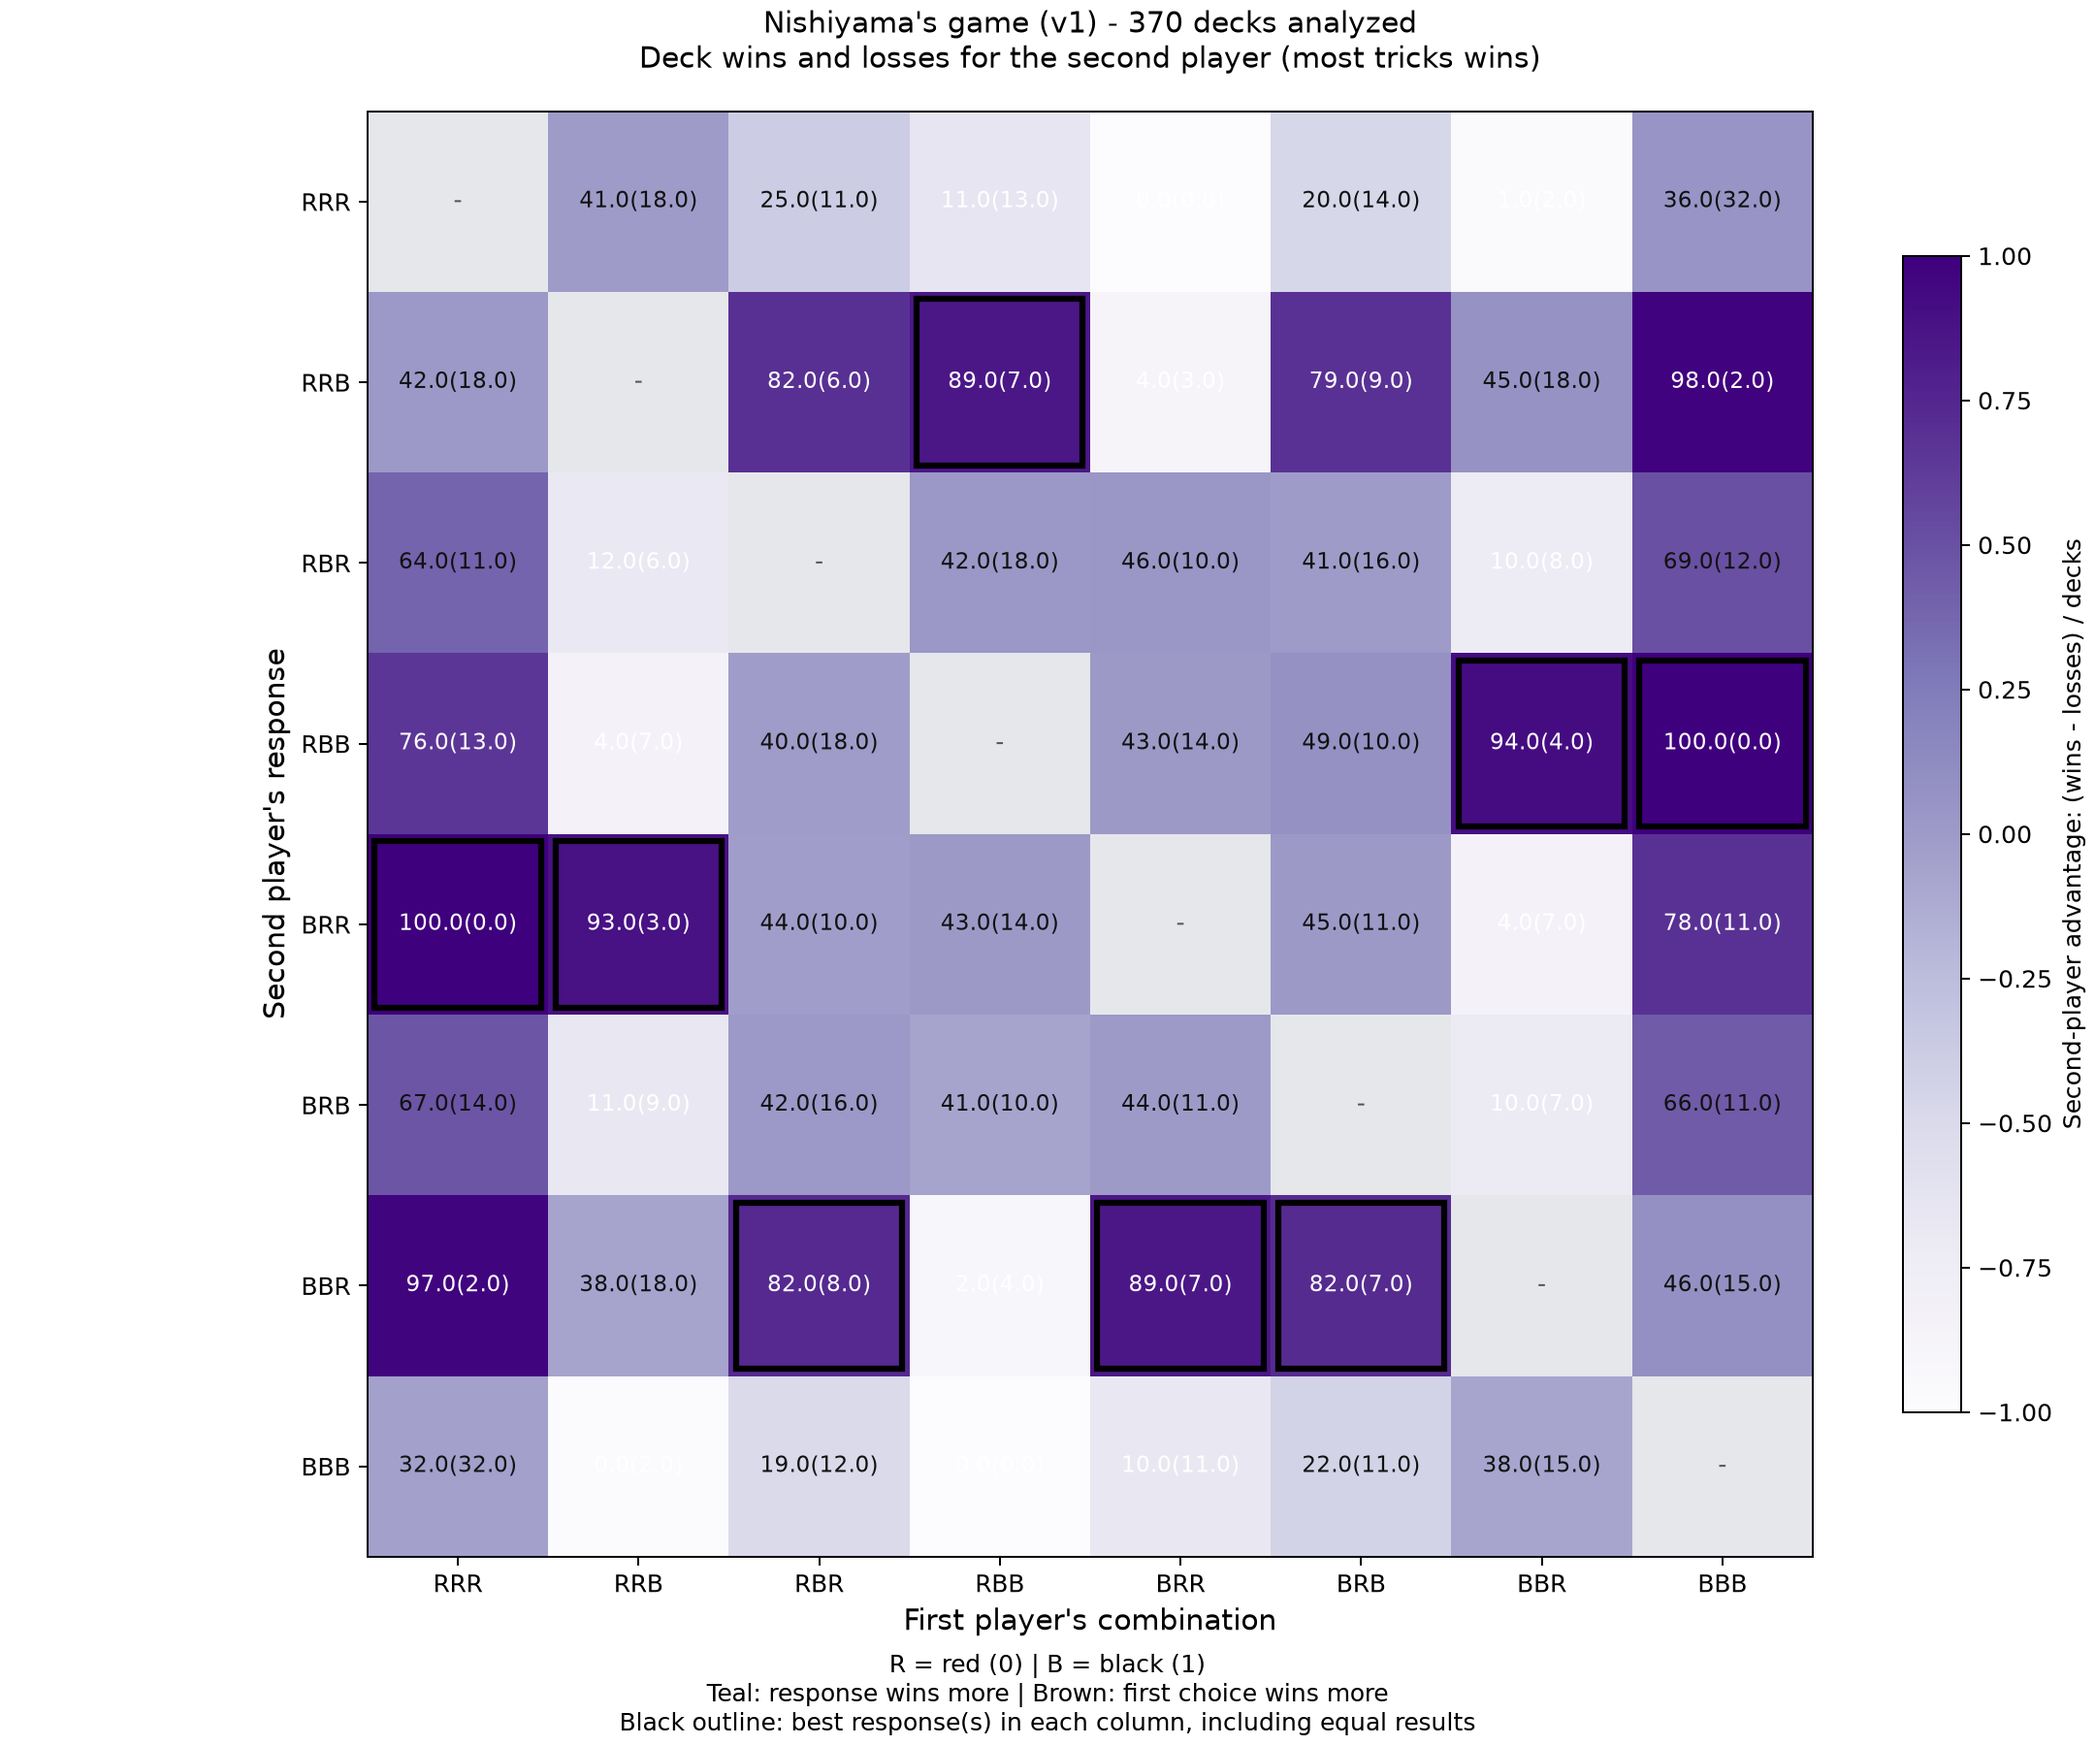
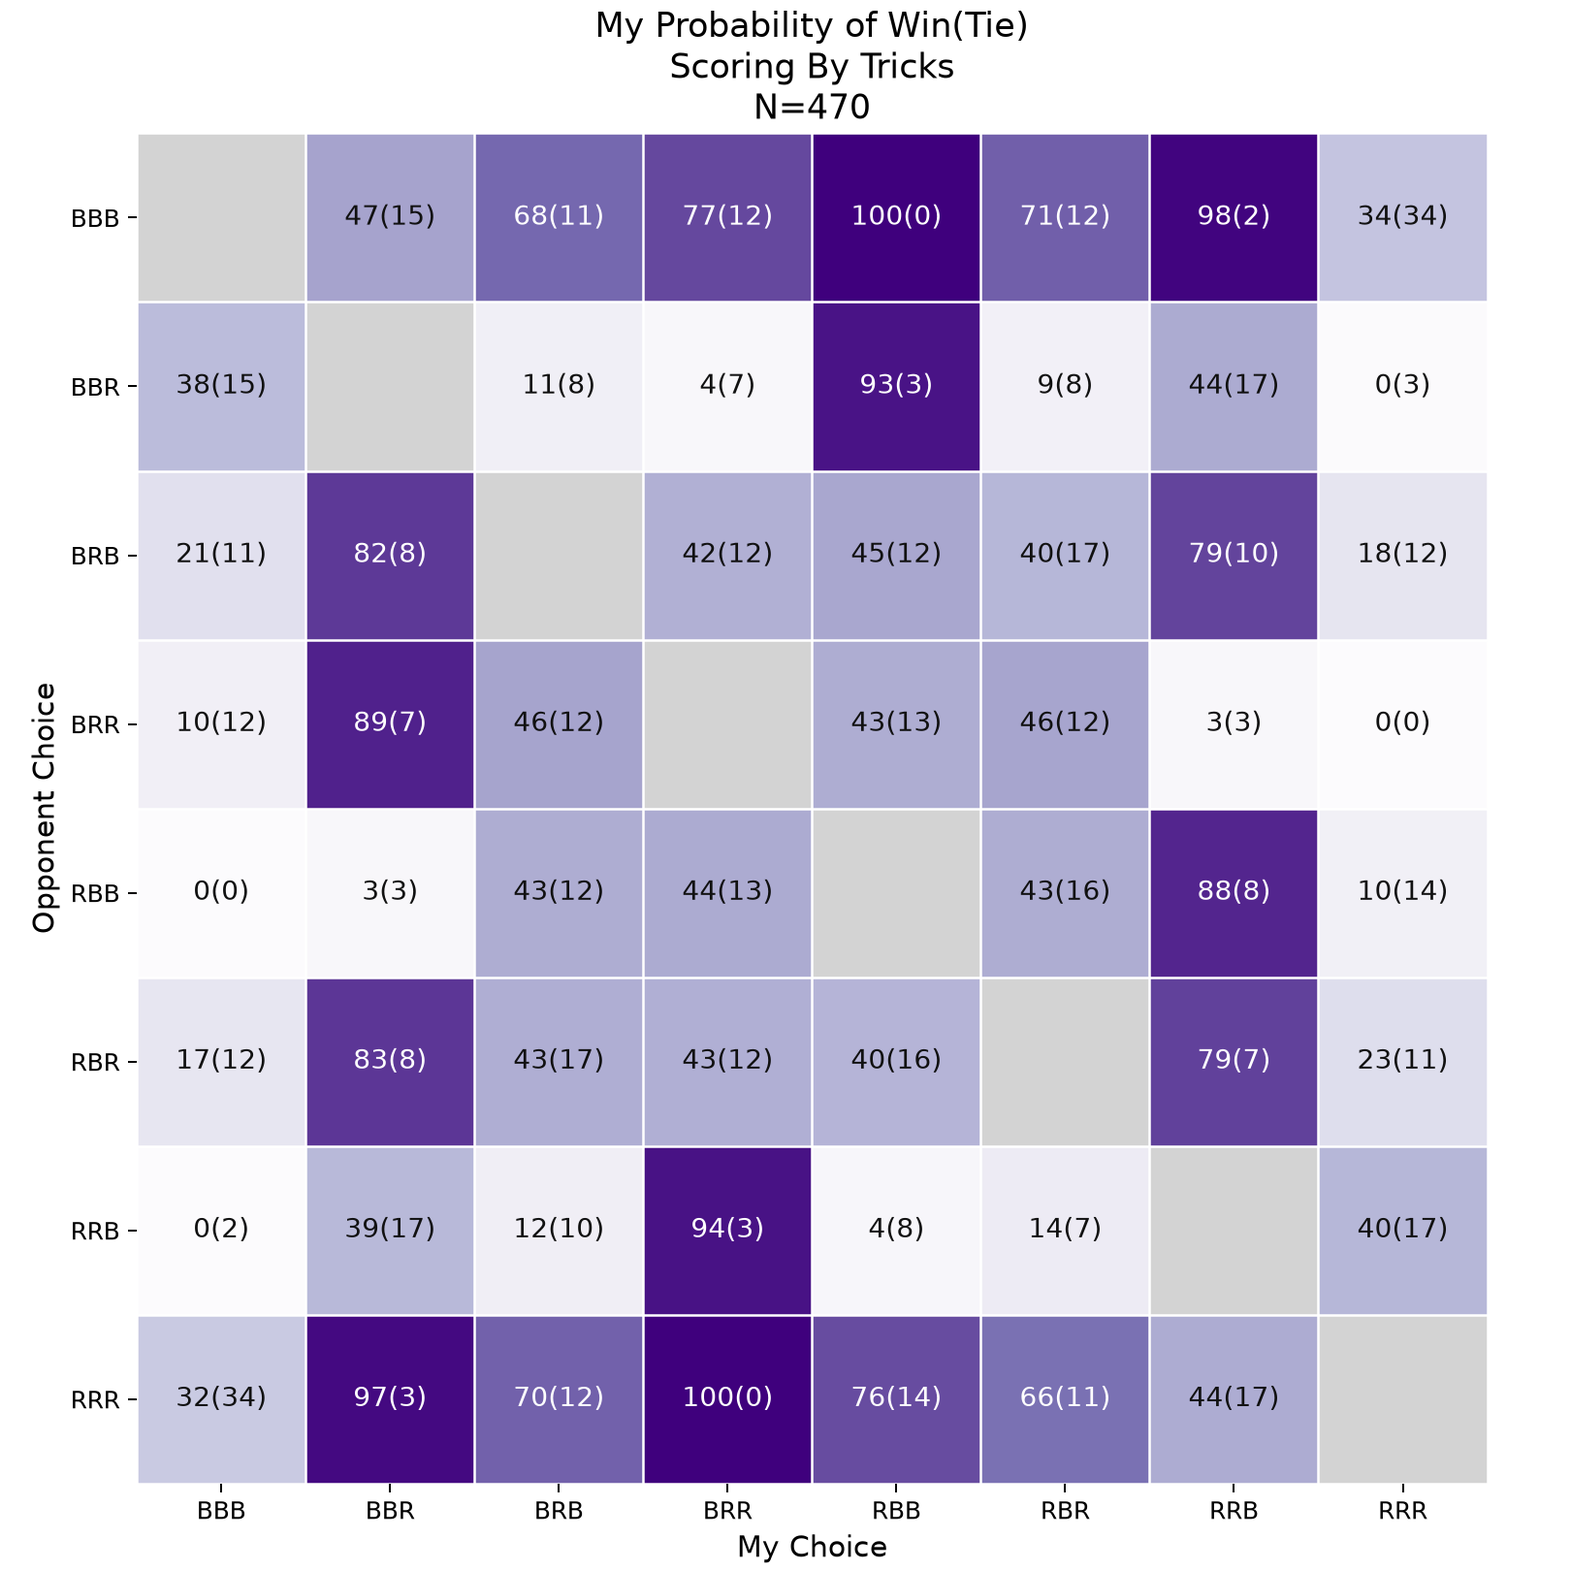
updated dataviz to look more like Prof's

diff --git a/src/dataviz.py b/src/dataviz.py
@@ -2,59 +2,51 @@
 from pathlib import Path
 
 import matplotlib.pyplot as plt
-from matplotlib.patches import Rectangle
 import numpy as np
 
 from src.dataproc import CARD_COMBINATIONS
 
 
-SCORING_RULES = {1: "most tricks wins", 2: "most cards wins"}
-
-#CURRENT FEEDBACK
-#heatmap has transposed results. Want the win rate for us to be better
-#follow his heatmap format
+SCORING_RULES = {1: "Tricks", 2: "Cards"}
 
 def plot_heatmap(results, num_decks, output="figures/matchup_heatmap_v1.png", version=1):
     if num_decks < 1:
         raise ValueError("At least one deck is required.")
-    patterns = CARD_COMBINATIONS
+    patterns = CARD_COMBINATIONS[::-1]
     labels = [p.translate(str.maketrans("01", "RB")) for p in patterns]
     advantage = np.full((8, 8), np.nan)
     for column, first in enumerate(patterns):
         for row, second in enumerate(patterns):
             if first != second:
-                result = results[first, second]
-                advantage[row, column] = (result["wins"] - result["losses"]) / num_decks
+                # Results count wins for the second choice: the column (me).
+                result = results[second, first]
+                advantage[row, column] = result["wins"] / num_decks
 
-    fig, ax = plt.subplots(figsize=(12, 10), constrained_layout=True)
+    fig, ax = plt.subplots(figsize=(9, 9), constrained_layout=True)
     cmap = plt.get_cmap("Purples").copy()
-    cmap.set_bad("#e5e7eb")
-    chart = ax.imshow(np.ma.masked_invalid(advantage), cmap=cmap, vmin=-1, vmax=1)
+    cmap.set_bad("lightgray")
+    ax.imshow(np.ma.masked_invalid(advantage), cmap=cmap, vmin=0, vmax=1)
     for column, first in enumerate(patterns):
-        best = np.nanmax(advantage[:, column])
         for row, second in enumerate(patterns):
             if first == second:
-                ax.text(column, row, "-", ha="center", va="center", color="#555555")
                 continue
-            result = results[first, second]
+            result = results[second, first]
             value = advantage[row, column]
-            label = f"{round(100 * result['wins']/num_decks, 0)}({round(100* result['ties'] / num_decks, 0)})"
-            ax.text(column, row, label, ha="center", va="center", fontsize=9,
-                    color="white" if abs(value) >= 0.6 else "#111111")
-            if np.isclose(value, best):
-                ax.add_patch(Rectangle((column - .46, row - .46), .92, .92,
-                                       fill=False, edgecolor="black", linewidth=2.5))
+            label = f"{100 * value:.0f}({100 * result['ties'] / num_decks:.0f})"
+            ax.text(column, row, label, ha="center", va="center", fontsize=11,
+                    color="white" if value >= 0.5 else "#111111")
     ax.set_xticks(range(8), labels)
     ax.set_yticks(range(8), labels)
-    ax.set_xlabel("First player's combination", fontsize=12)
-    ax.set_ylabel("Second player's response", fontsize=12)
-    ax.set_title(f"Nishiyama's game (v{version}) - {num_decks:,} decks analyzed\n"
-                 f"Deck wins and losses for the second player ({SCORING_RULES[version]})", pad=18)
-    bar = fig.colorbar(chart, ax=ax, shrink=.8)
-    bar.set_label("Second-player advantage: (wins - losses) / decks")
-    fig.supxlabel("R = red (0) | B = black (1)\n"
-                  "Teal: response wins more | Brown: first choice wins more\n"
-                  "Black outline: best response(s) in each column, including equal results", fontsize=10)
+    ax.set_xticks(np.arange(-.5, 8, 1), minor=True)
+    ax.set_yticks(np.arange(-.5, 8, 1), minor=True)
+    ax.grid(which="minor", color="white", linewidth=1)
+    ax.tick_params(which="minor", bottom=False, left=False)
+    for spine in ax.spines.values():
+        spine.set_visible(False)
+    ax.set_xlabel("My Choice", fontsize=12)
+    ax.set_ylabel("Opponent Choice", fontsize=12)
+    ax.set_title("My Probability of Win(Tie)\n"
+                 f"Scoring By {SCORING_RULES[version]}\nN={num_decks:,}", fontsize=14)
     output = Path(output)
     output.parent.mkdir(parents=True, exist_ok=True)
     fig.savefig(output, dpi=180)
